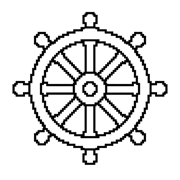
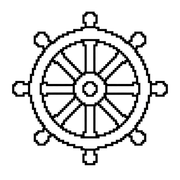
fix: preserve brand contrast on iOS

diff --git a/src/app/[locale]/(common-layout)/_components/header/index.tsx b/src/app/[locale]/(common-layout)/_components/header/index.tsx
@@ -19,7 +19,7 @@ export function HeaderFrame({
 					<img
 						alt=""
 						className="size-8 shrink-0 dark:invert"
-						src="/apple-touch-icon.png"
+						src="/brand-icon.png"
 					/>
 					<span className="hidden font-semibold text-xl sm:inline">
 						Digital Buddhism
